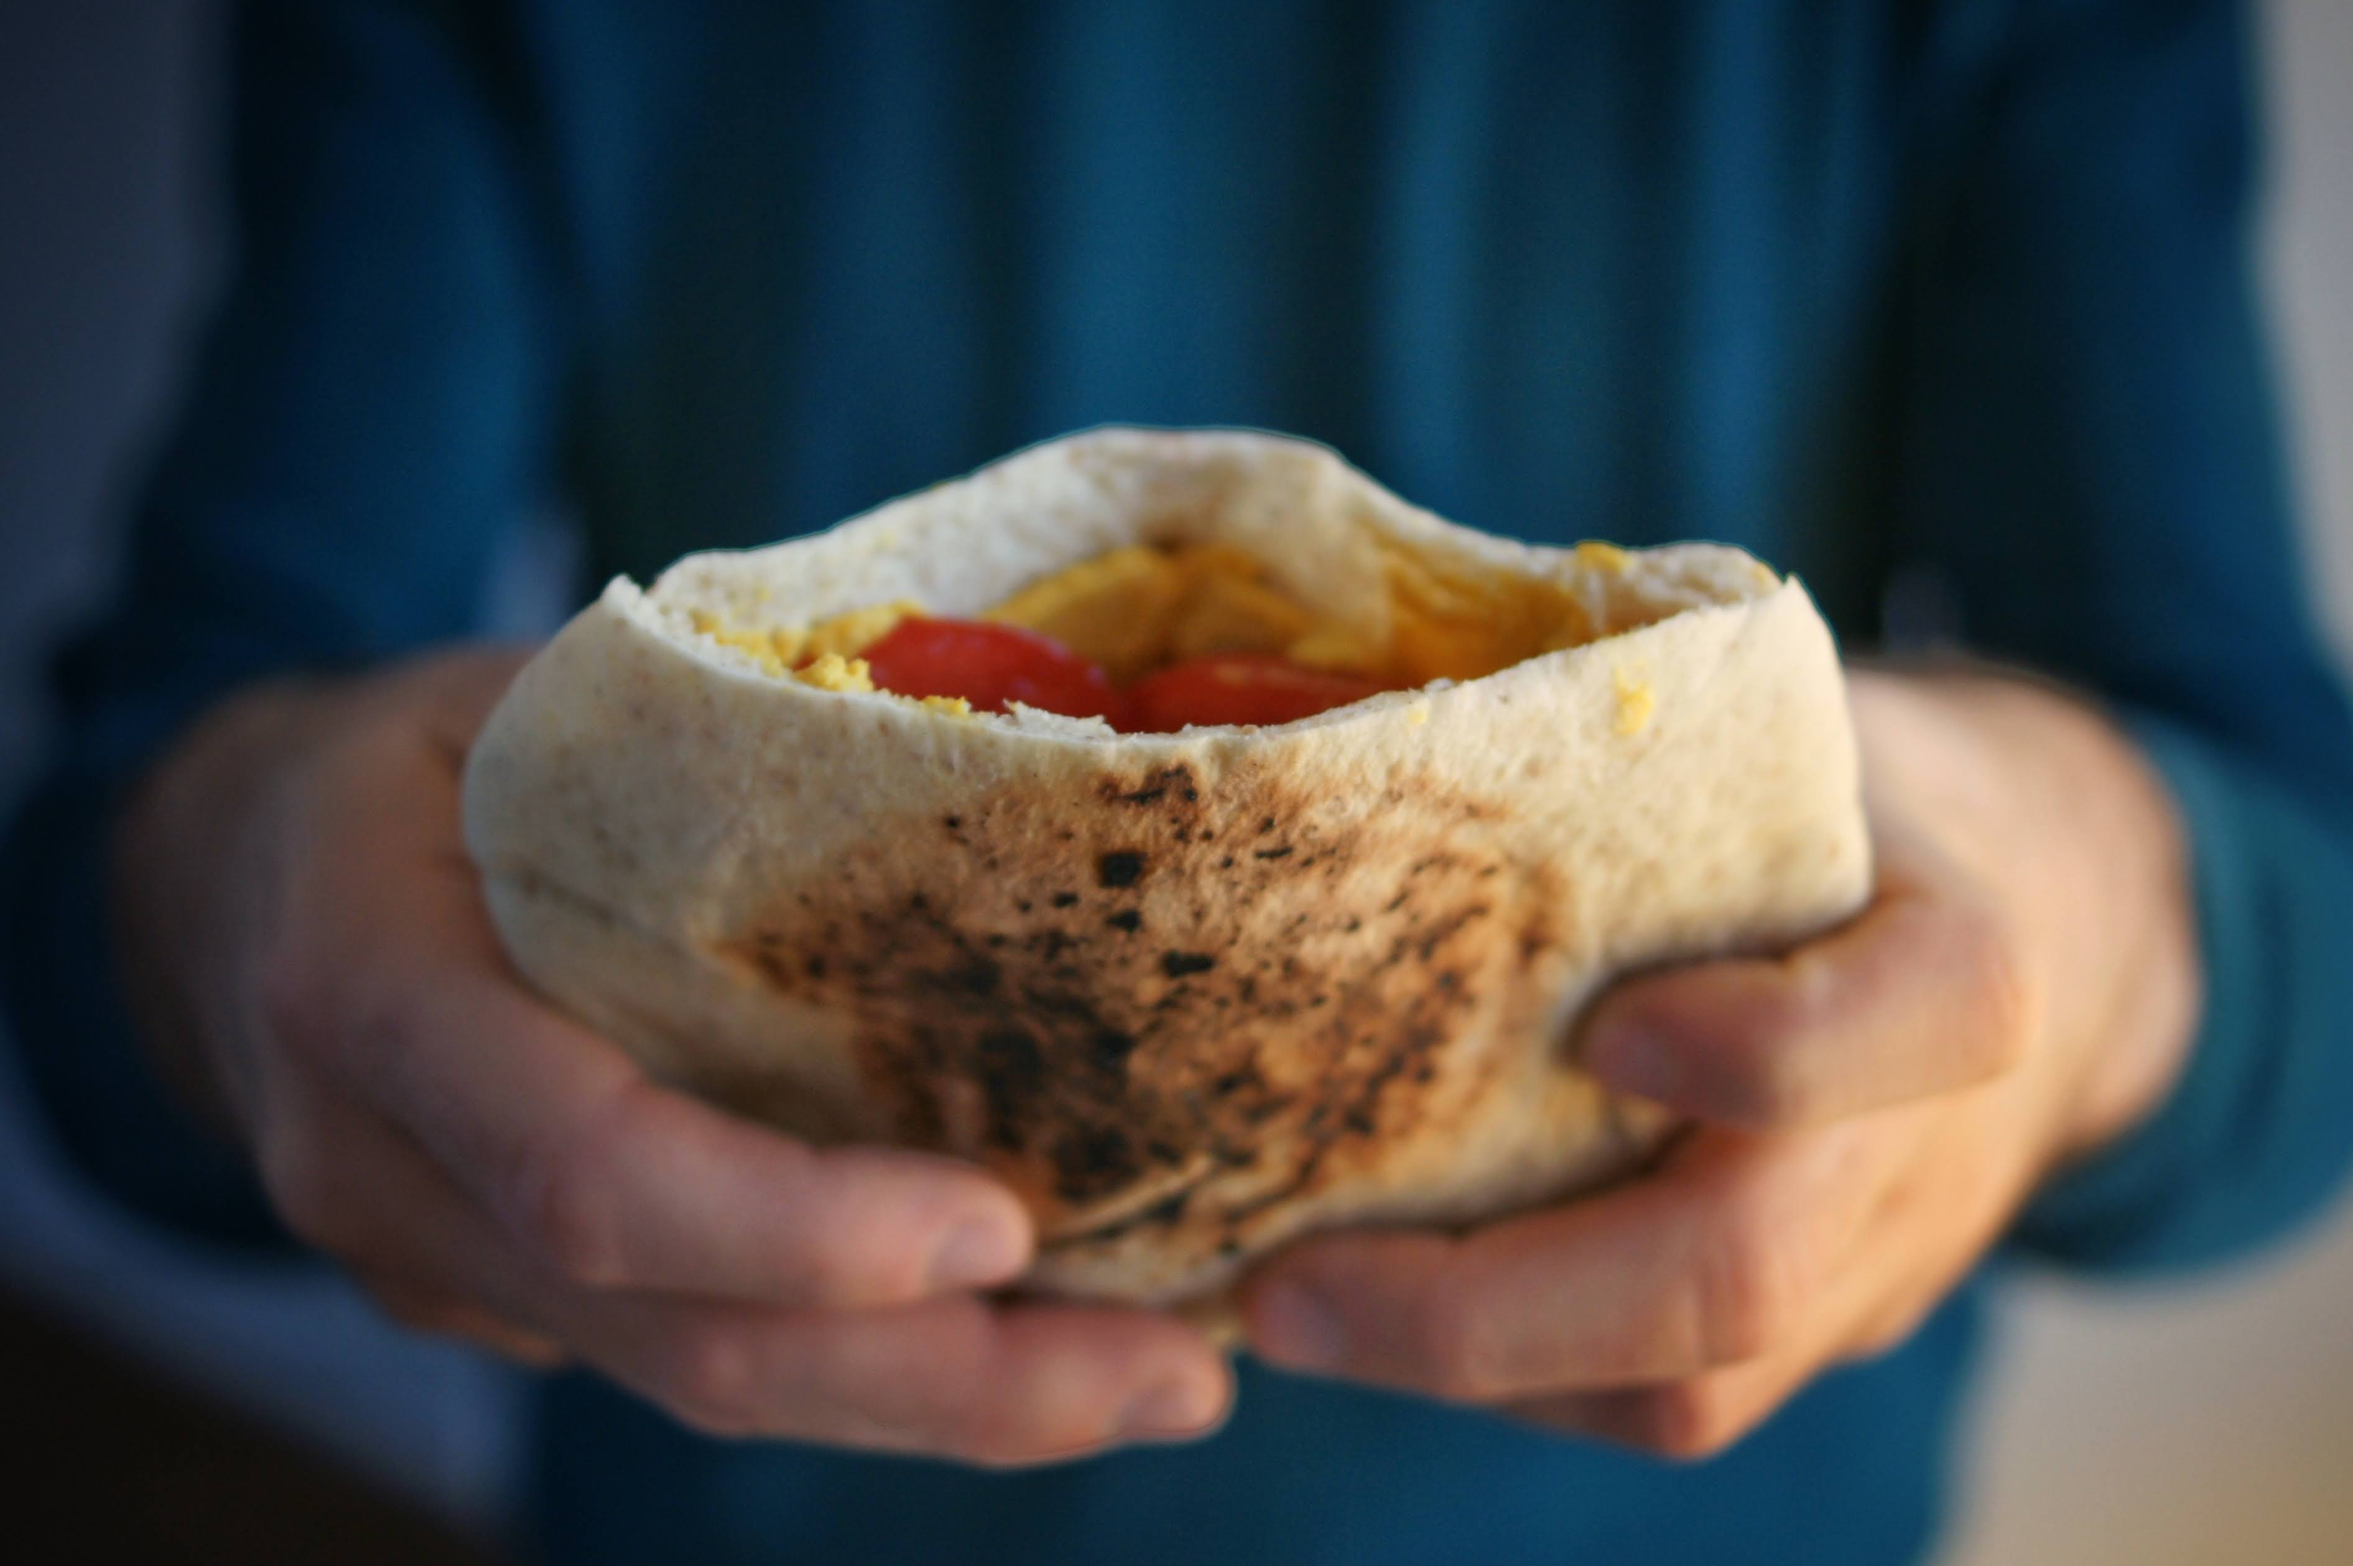
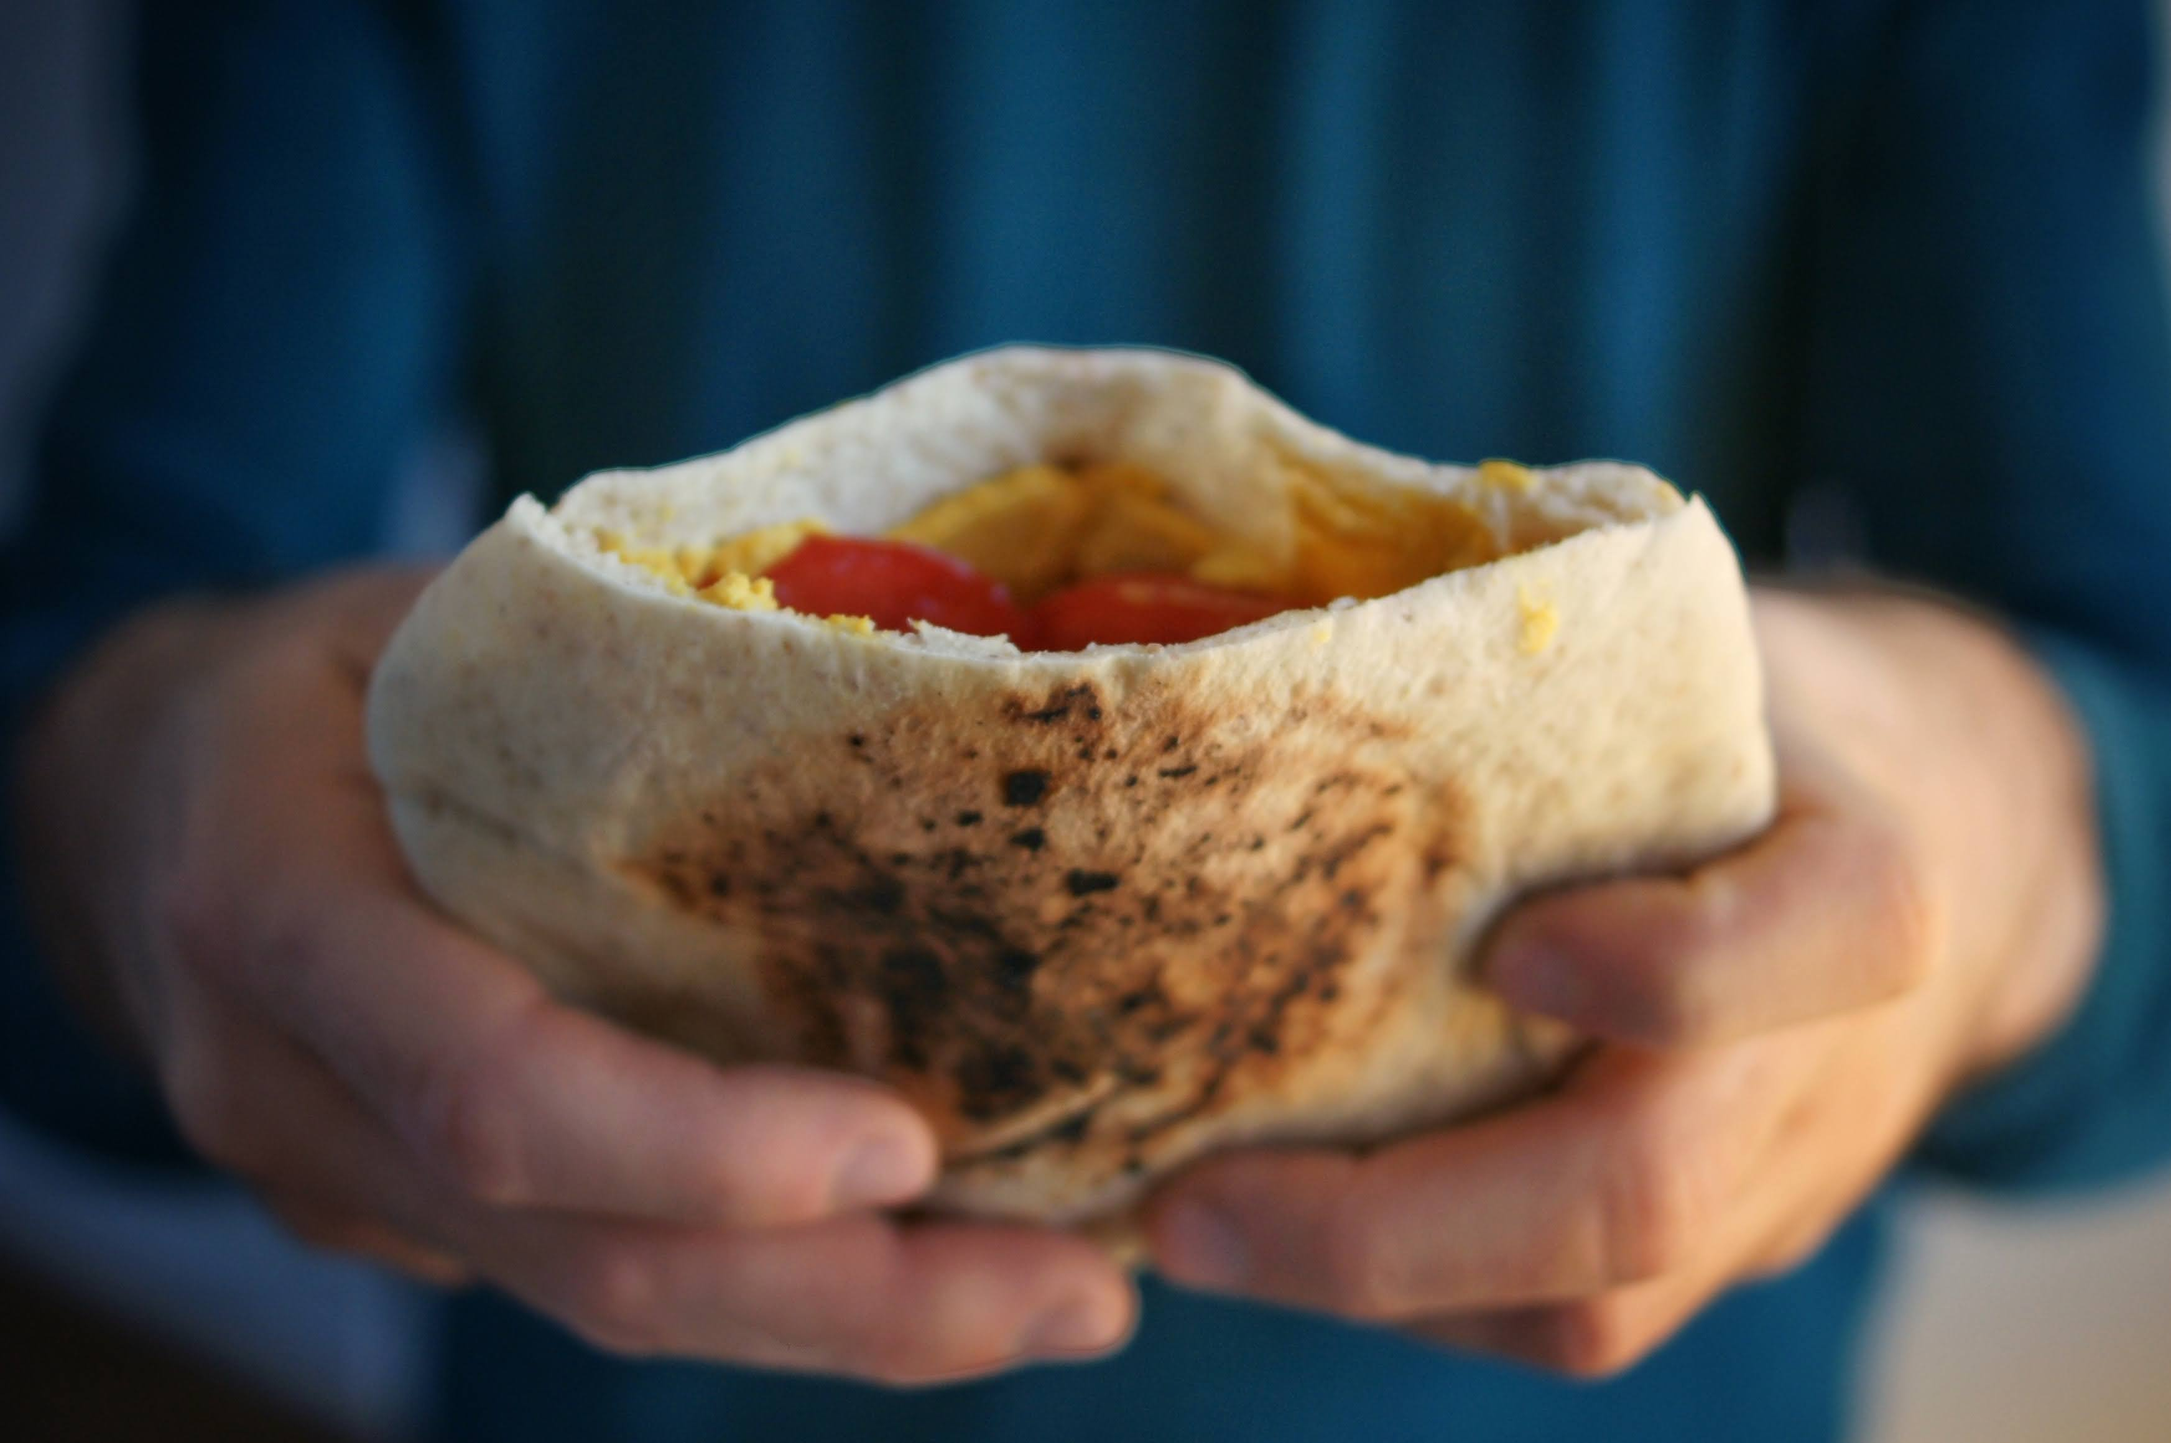
Update Pita

diff --git a/_posts/2020-11-28-pita.md b/_posts/2020-11-28-pita.md
@@ -1,7 +1,7 @@
 ---
 layout: post
 image:  assets/images/blog/2020-11-28-pita/pita.jpg
-image-small:  assets/images/blog/2020-11-28-pita/pita.jpg
+image-small:  assets/images/blog/2020-11-28-pita/pita-small.jpg
 title: Pita
 description: Pita to płaski chleb wypiekany na patelni, znany najbardziej z kuchni tureckiej, greckiej i kuchni bliskiego wschodu.
 categories: chleby
